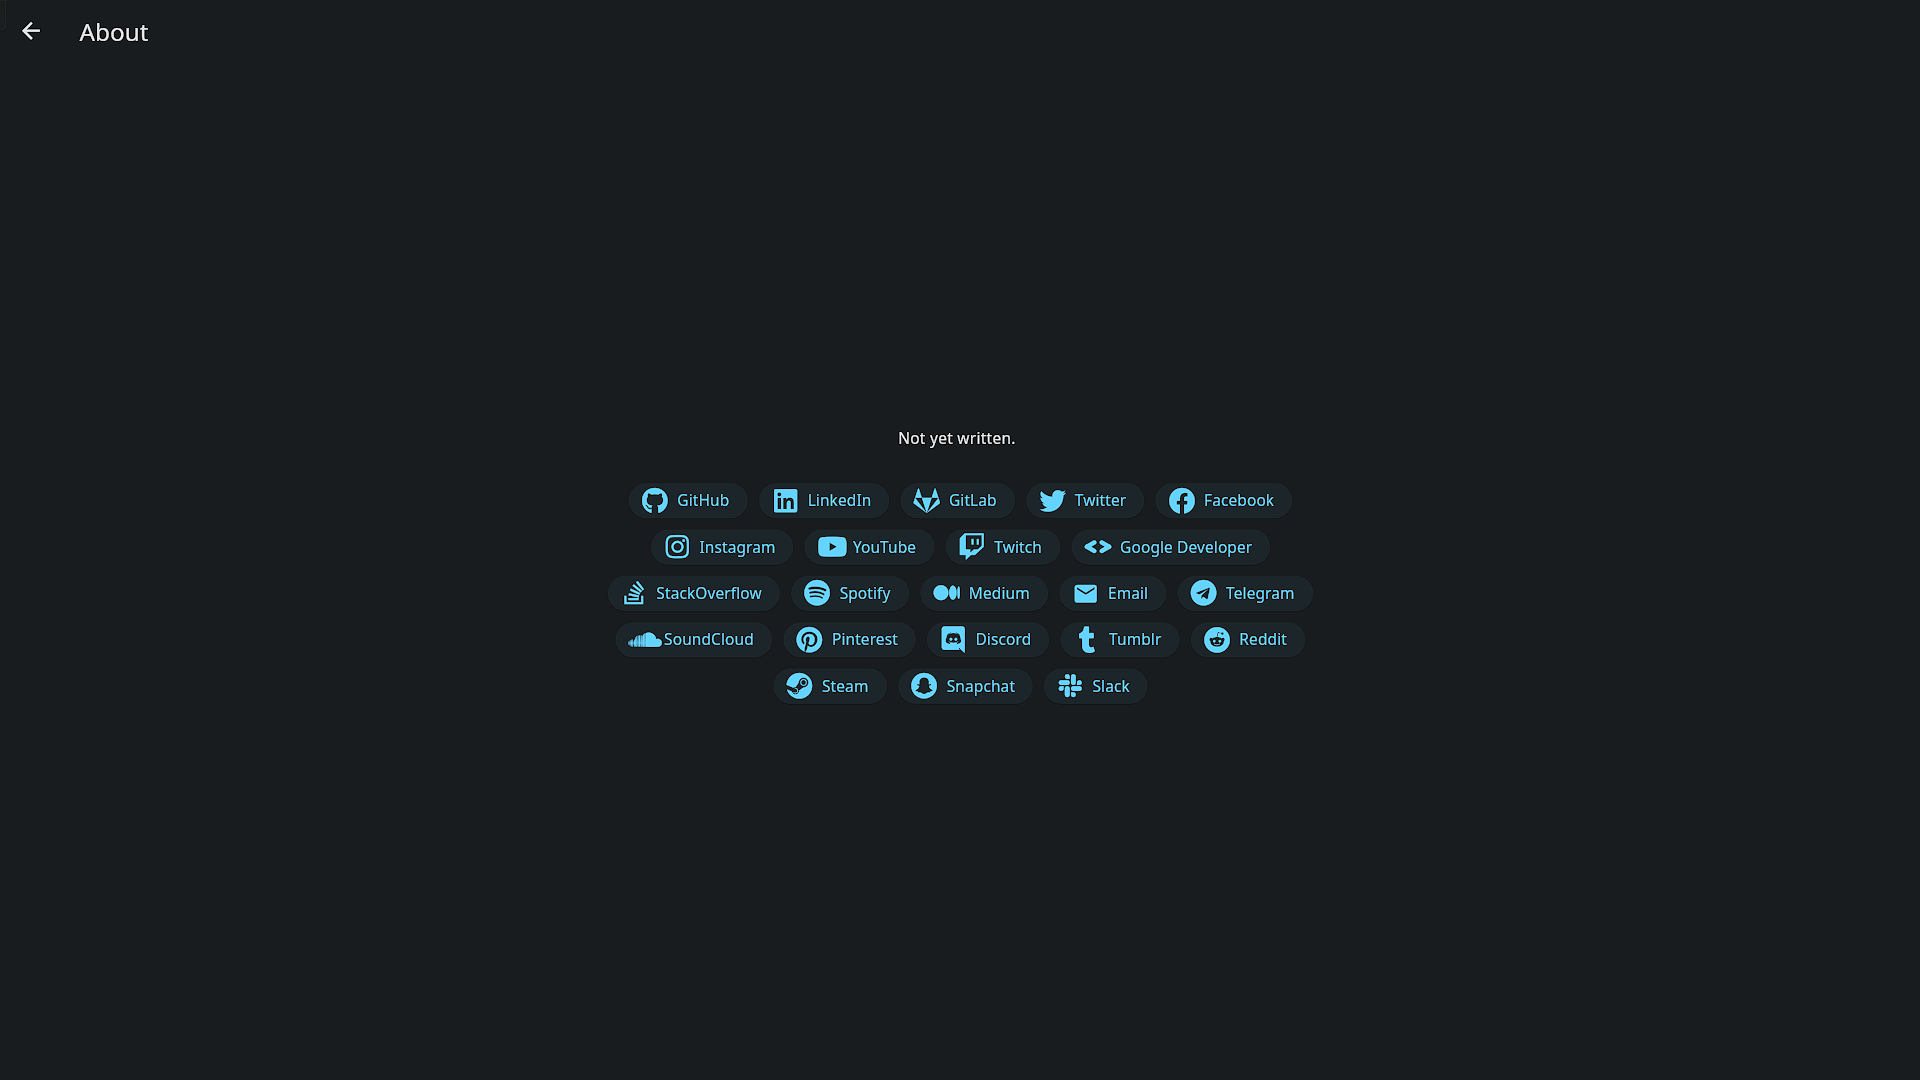
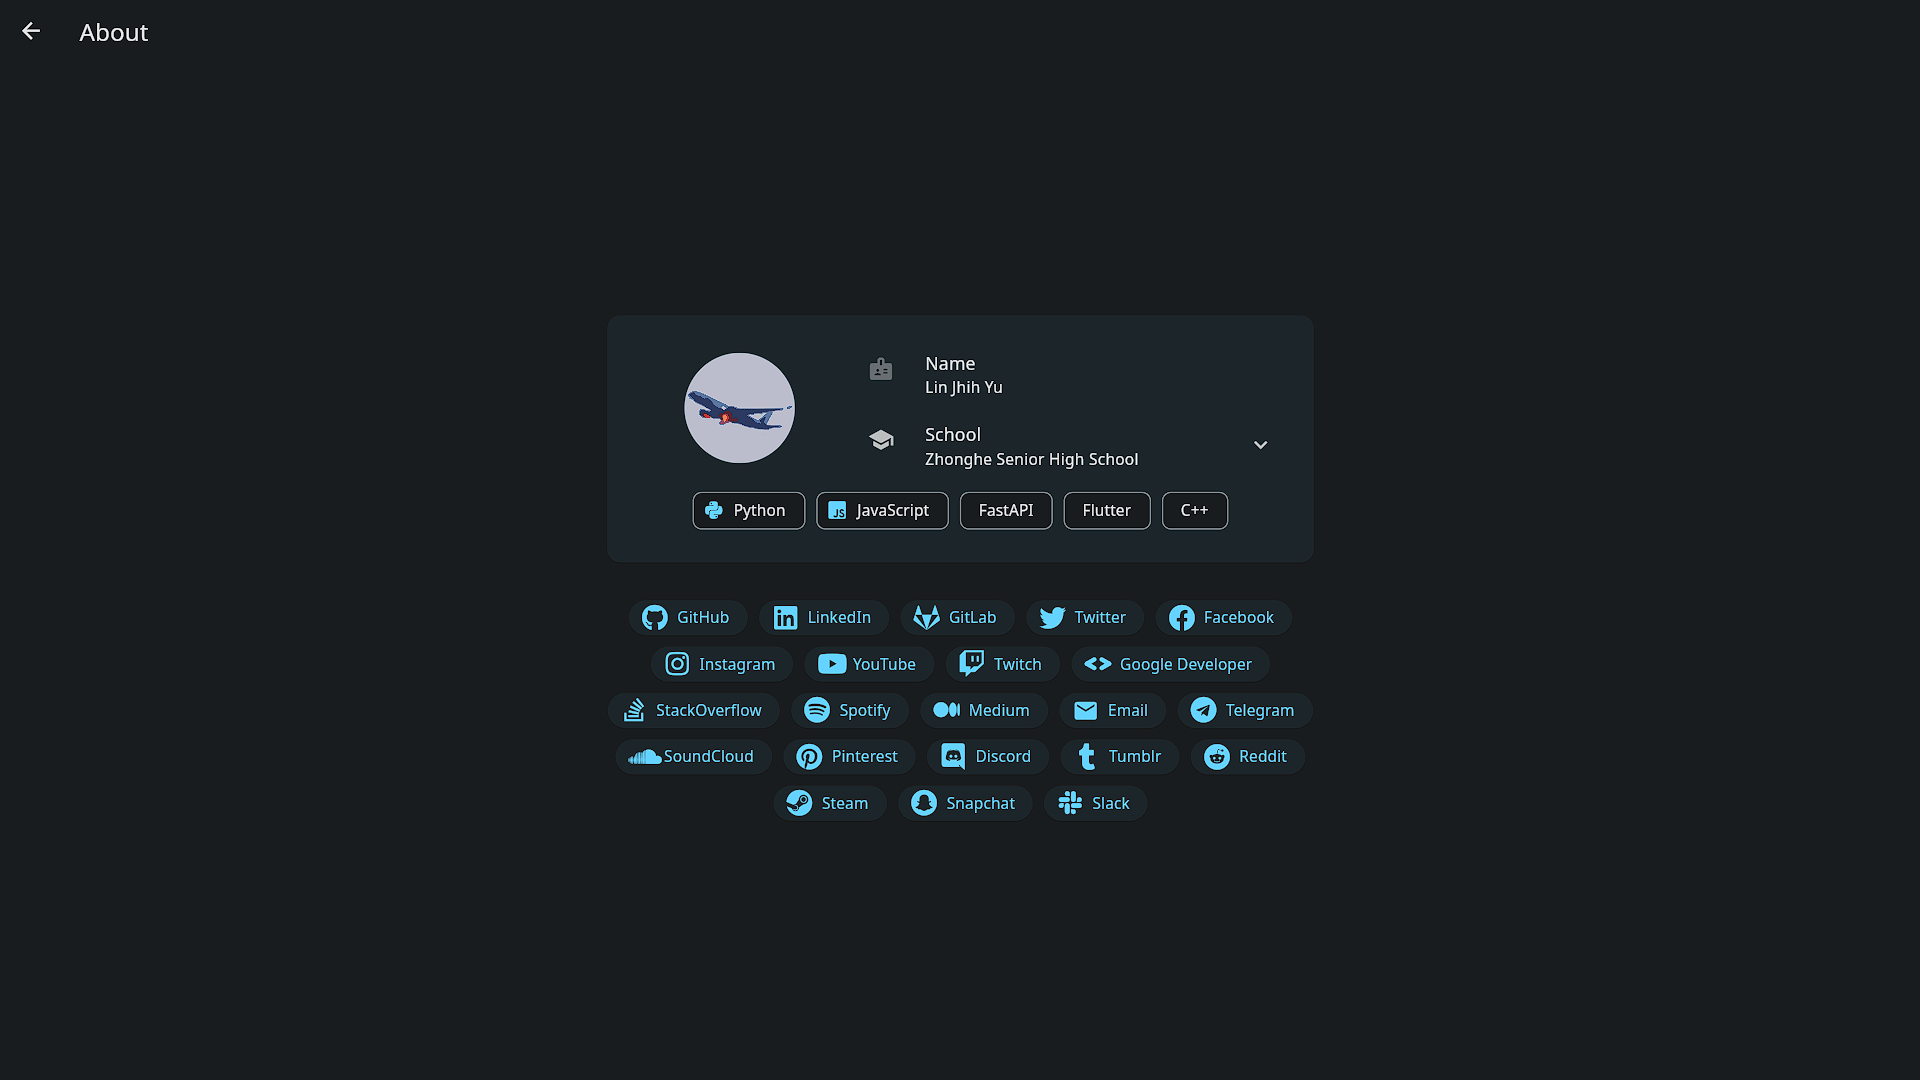
update about page

Changed region(s): [[0.3125, 0.3972, 0.6875, 0.7639], [0.3438, 0.3056, 0.5312, 0.4278]]

diff --git a/lib/pages/about.dart b/lib/pages/about.dart
@@ -4,9 +4,6 @@ import 'package:animated_text_kit/animated_text_kit.dart';
 
 import '../plugins/logo_icons.dart';
 
-const String text1 = 'Not yet written.';
-const String text2 = '';
-
 Map<String, Map<String, Object>> SocialMedia = {
   'GitHub': {
     'url': 'https://github.com/jhihyulin',
@@ -101,8 +98,13 @@ Map<String, Map<String, Object>> SocialMedia = {
 class AboutPage extends StatelessWidget {
   const AboutPage({super.key});
 
+  bool _isDesktop(BuildContext context) {
+    return MediaQuery.of(context).size.width > 640 ? true : false;
+  }
+
   @override
   Widget build(BuildContext context) {
+    final theme = Theme.of(context).copyWith(dividerColor: Colors.transparent);
     return Scaffold(
       appBar: AppBar(
         title: const Text('About'),
@@ -121,18 +123,76 @@ class AboutPage extends StatelessWidget {
         child: Column(
           mainAxisAlignment: MainAxisAlignment.center,
           children: <Widget>[
-            AnimatedTextKit(
-              isRepeatingAnimation: false,
-              displayFullTextOnTap: true,
-              animatedTexts: [
-                TypewriterAnimatedText(
-                  text1,
-                  textAlign: TextAlign.center,
-                  speed: const Duration(milliseconds: 50),
-                ),
-              ],
+            Card(
+              child: Container(
+                  padding: const EdgeInsets.all(20),
+                  child: Wrap(
+                    alignment: WrapAlignment.center,
+                    children: [
+                      Container(
+                        alignment: Alignment.center,
+                        constraints:
+                            const BoxConstraints(maxWidth: 200, minHeight: 128),
+                        child: const CircleAvatar(
+                          radius: 50,
+                          backgroundImage:
+                              AssetImage('assets/images/avatar.jpg'),
+                        ),
+                      ),
+                      Container(
+                          constraints: const BoxConstraints(maxWidth: 400),
+                          child: Column(
+                              crossAxisAlignment: CrossAxisAlignment.start,
+                              children: [
+                                const ListTile(
+                                  leading: Icon(Icons.badge),
+                                  title: Text("Name"),
+                                  subtitle: Text("Jhih Yu"),
+                                ),
+                                Theme(
+                                    data: theme,
+                                    child: const ExpansionTile(
+                                      leading: Icon(Icons.school),
+                                      title: Text("School"),
+                                      subtitle: Text(
+                                          "Zhonghe Senior High School"),
+                                      children: [
+                                        ListTile(
+                                          title: Text(
+                                              "Zhonghe Senior High School"),
+                                          trailing: Text("2020 - 2023"),
+                                        ),
+                                        ListTile(
+                                          title: Text(
+                                              "Tsz-Shiou Senior High School"),
+                                          trailing: Text("2017 - 2020"),
+                                        ),
+                                      ],
+                                    ))
+                              ])),
+                      Container(
+                          padding: const EdgeInsets.all(10),
+                          child: Wrap(
+                            alignment: WrapAlignment.center,
+                            spacing: 10,
+                            runSpacing: 10,
+                            children: const [
+                              Chip(
+                                  label: Text("Python"),
+                                  avatar: Icon(Logo.python)),
+                              Chip(
+                                  label: Text("JavaScript"),
+                                  avatar: Icon(Logo.js_square)),
+                              Chip(
+                                label: Text("FastAPI"),
+                              ),
+                              Chip(label: Text("Flutter")),
+                              Chip(label: Text("C++")),
+                            ],
+                          ))
+                    ],
+                  )),
             ),
-            //Text(text2),
             const SizedBox(height: 20),
             Container(
                 constraints: const BoxConstraints(maxWidth: 700),
@@ -143,12 +203,19 @@ class AboutPage extends StatelessWidget {
                   alignment: WrapAlignment.center,
                   children: [
                     for (var key in SocialMedia.keys)
-                      ElevatedButton.icon(
-                        onPressed: () => _launchUrl(
-                            Uri.parse(SocialMedia[key]!['url'] as String)),
-                        icon: Icon(SocialMedia[key]!['icon'] as IconData),
-                        label: Text(key),
-                      ),
+                      _isDesktop(context)
+                          ? ElevatedButton.icon(
+                              onPressed: () => _launchUrl(Uri.parse(
+                                  SocialMedia[key]!['url'] as String)),
+                              icon: Icon(SocialMedia[key]!['icon'] as IconData),
+                              label: Text(key),
+                            )
+                          : IconButton(
+                              onPressed: () => _launchUrl(Uri.parse(
+                                  SocialMedia[key]!['url'] as String)),
+                              icon: Icon(SocialMedia[key]!['icon'] as IconData),
+                              tooltip: key,
+                            )
                   ],
                 ))
           ],
